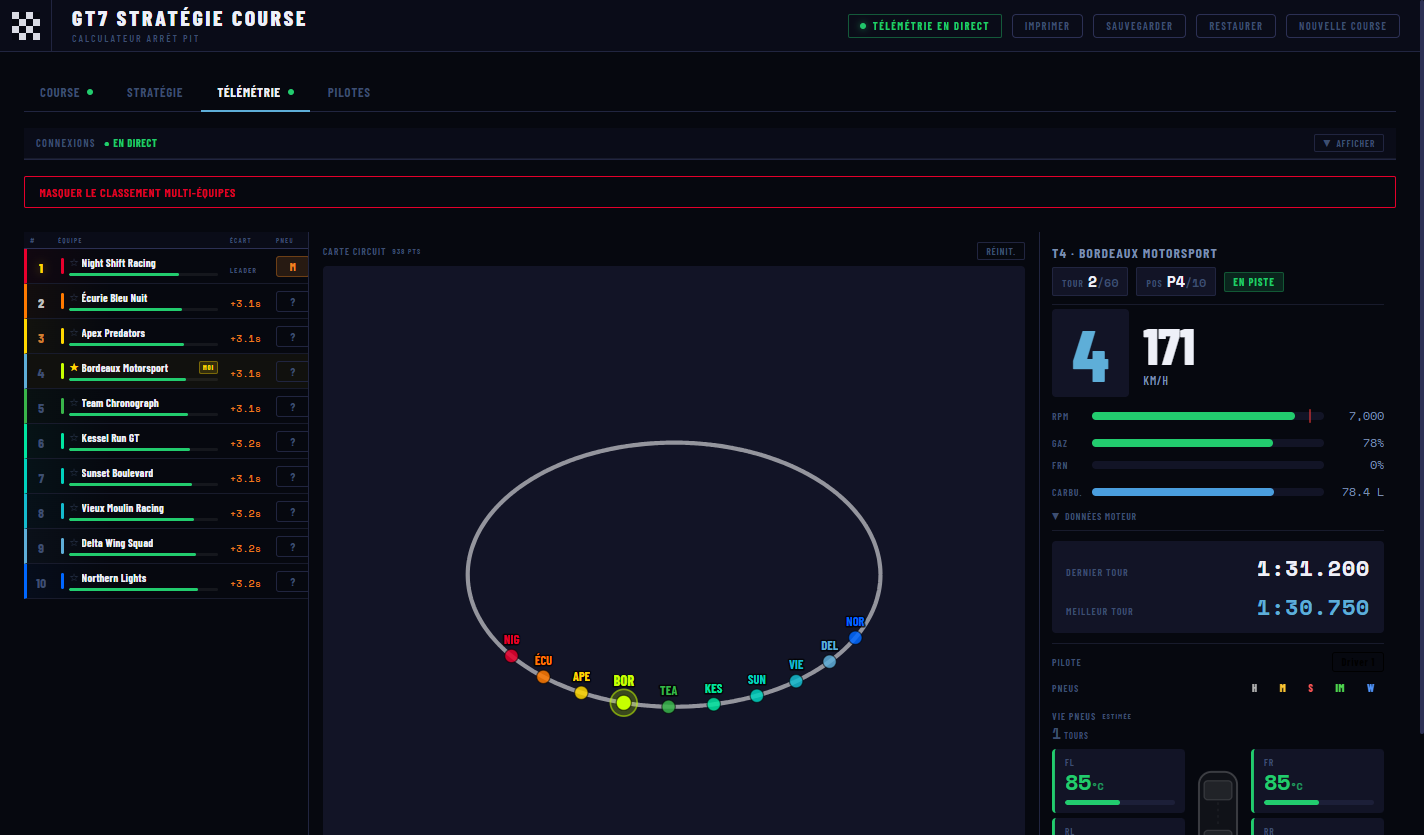
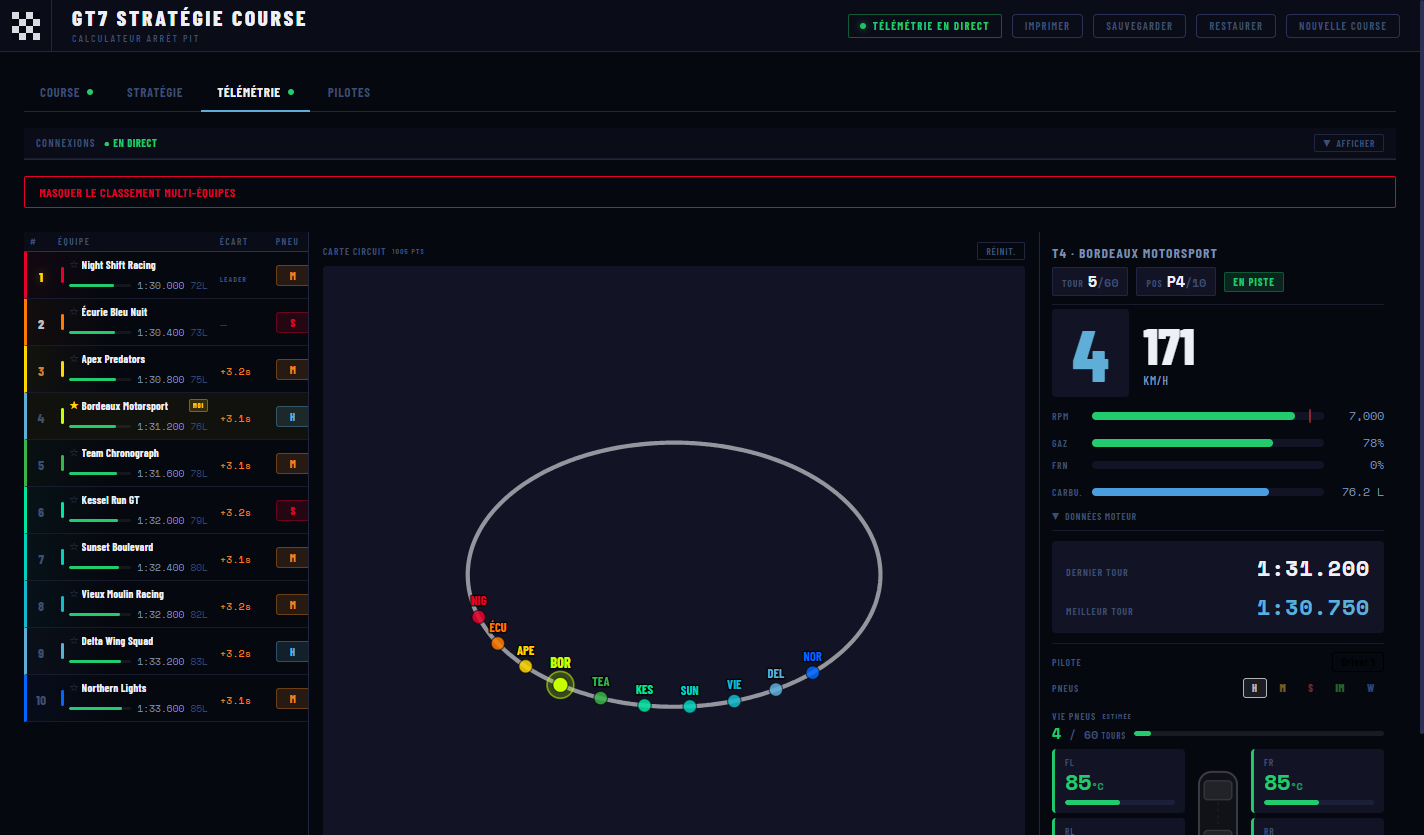
fix(leaderboard): the other cells were worse off than the name
Measured every visible cell in the running packaged app against the widest
value it can actually hold, not against the values the demo happened to show.
Three real problems:

- **The gap column clipped from ten seconds up.** ÉCART's 46px left the number
  34px of content: "+3.2s" fits, "+12.4s" does not — i.e. most of a real
  field, which is why the simulated one at +3.1s looked fine. Now 56px, which
  holds "+119.9s", the widest an interval gets before the car is a lap down.
- **The column headers rendered at 7.04px.** 0.44rem was set back when the
  column was 160px wide. Now 0.58rem (9.28px).
- **The last lap and the fuel litres were not shown at all.** DERNIER,
  MEILLEUR and CARBU are hidden in this column and only the 3px fuel bar
  survived, so you could see roughly how full a car was and never how fast it
  just went. Both numbers now ride under the team name, where they cost no
  width — the one thing the name cannot spare.

Also raises the column's floor 230px → 270px: below that the longest names
clipped again on a small window. Measured at 230/250/260/270.

Verified in the repackaged build with ten named cars: with every cell stuffed
with its worst case ("Bordeaux Motorsport", "19:59.999", "+119.9s", "100L",
"IM"), nothing clips at either the 270px floor or full width. The map still
gets 731px.

Tests: test_ui_leaderboard 48 → 55, suite 2412 → 2419. The new ones pin the
markup the narrow column depends on — jsdom does no layout, so they assert the
[…]

diff --git a/src/index.css b/src/index.css
@@ -1928,9 +1928,11 @@ input[type="range"]::-moz-range-thumb {
    "127.0.0.2" and nothing anyone would actually type. Measured again at 20vw
    on a 1424px window the name cell is ~114px, which clears a long name
    ("Bordeaux Motorsport" needs 87px) even on the starred row, where the MOI
-   pill costs another ~22px. The map keeps the rest and still gets ~735px. */
+   pill costs another ~22px. The map keeps the rest and still gets ~735px.
+   The 270px floor is where nothing clips on a small window — measured at
+   230/250/260/270 with the widest values every cell can hold. */
 .telem-3col-lb {
-  width: max(230px, 20vw);
+  width: max(270px, 20vw);
   flex-shrink: 0;
   border-right: 1px solid var(--rule-mid);
   overflow-y: auto;
@@ -2255,6 +2257,23 @@ input[type="range"]::-moz-range-thumb {
 }
 
 /* Inline fuel bar — only shown in narrow mode (telem-3col-lb) */
+/* The name's second line, narrow column only — see .telem-3col-lb below. */
+.lb-meta {
+  display: none;
+  align-items: center;
+  gap: 6px;
+  margin-top: 3px;
+}
+.lb-meta .lb-inline-fuel { flex: 1; }
+.lb-meta-lap,
+.lb-meta-fuel {
+  font-family: var(--font-mono);
+  font-size: 0.6rem;
+  white-space: nowrap;
+}
+.lb-meta-lap  { color: var(--text-secondary); }
+.lb-meta-fuel { color: var(--text-muted); }
+
 .lb-inline-fuel {
   display: none;
   height: 3px;
@@ -2948,11 +2967,19 @@ input[type="range"]::-moz-range-thumb {
 .telem-3col-lb .lbc-best,
 .telem-3col-lb .lbc-fuel      { display: none; }
 .telem-3col-lb .lb-inline-fuel { display: block; }
+/* DERNIER, MEILLEUR and CARBU have no column here, so the last lap and the
+   fuel litres ride along under the team name instead — same information,
+   no extra width. */
+.telem-3col-lb .lb-meta { display: flex; }
 .telem-3col-lb .lb-header,
 .telem-3col-lb .lb-row {
-  grid-template-columns: 28px 1fr 46px 38px;
+  /* ÉCART at 46px gave the number 34px of content, which fits "+3.2s" and
+     clips "+12.4s" — i.e. most of a real field. 56px holds "+119.9s", the
+     widest an interval gets before the car is simply a lap down. */
+  grid-template-columns: 28px 1fr 56px 38px;
 }
-.telem-3col-lb .lb-hcol  { font-size: 0.44rem; padding: 4px 6px; }
+/* 0.44rem measured 7.04px in the running app — too small to read. */
+.telem-3col-lb .lb-hcol  { font-size: 0.58rem; padding: 4px 6px; }
 .telem-3col-lb .lbc      { padding: 6px 6px; }
 
 /* In this narrow column the ★ and ✎ were squeezing the team name to literally

diff --git a/tests/test_ui_leaderboard.js b/tests/test_ui_leaderboard.js
@@ -195,6 +195,38 @@ section('the name is actually legible, not squeezed to nothing');
   v.unmount();
 }
 
+section('the narrow column still shows the last lap and the fuel');
+{
+  // The narrow telemetry column has no room for the DERNIER / MEILLEUR / CARBU
+  // columns, so those cells are hidden by CSS there and the two numbers worth
+  // keeping ride under the team name instead. CSS cannot be asserted from
+  // jsdom, but the markup it depends on can: if this line ever goes away, the
+  // narrow column silently loses the lap time and the fuel reading entirely.
+  const v = mount();
+  const rows = $$(v.container, '.lb-row');
+  assert('every row carries the meta line', $$(v.container, '.lb-meta').length === 4);
+  assert('it holds the fuel bar', $($$(v.container, '.lb-meta')[0], '.lb-inline-fuel') !== null);
+  assert('the last lap is there, formatted',
+    textOf($(rows[0], '.lb-meta-lap')) === '2:01.000', textOf($(rows[0], '.lb-meta-lap')));
+  assert('and the fuel in litres', textOf($(rows[0], '.lb-meta-fuel')) === '40L',
+    textOf($(rows[0], '.lb-meta-fuel')));
+
+  // Same numbers as the wide columns — one source, two placements.
+  assert('it agrees with the DERNIER column',
+    textOf($(rows[0], '.lb-meta-lap')) === textOf($(rows[0], '.lbc-last')));
+
+  const blank = mount({
+    teams: new Map([[IPS[0], car({ racePos: 1, lastLapMs: 0, fuelLiters: null })]]),
+    teamOrder: [IPS[0]],
+  });
+  assert('a car with no lap yet shows a placeholder, not NaN',
+    textOf($(blank.container, '.lb-meta-lap')) === '—',
+    textOf($(blank.container, '.lb-meta-lap')));
+  assert('and unknown fuel too', textOf($(blank.container, '.lb-meta-fuel')) === '—');
+  blank.unmount();
+  v.unmount();
+}
+
 section('colours match what the map will paint');
 {
   const v = mount();

diff --git a/src/components/TelemetryLeaderboard.jsx b/src/components/TelemetryLeaderboard.jsx
@@ -164,11 +164,20 @@ export default function TelemetryLeaderboard({
                     {isMine && <span className="lb-mine-pill">MOI</span>}
                     {!d.onTrack && <span className="lb-box-pill">BOX</span>}
                   </div>
-                  <div className="lb-inline-fuel">
-                    <div
-                      className="lb-inline-fuel-fill"
-                      style={{ width: `${fuelPct}%`, background: fuelBarColor(fuelPct) }}
-                    />
+                  {/* Narrow column only: the DERNIER / MEILLEUR / CARBU columns
+                      do not fit there, so the two numbers worth having follow
+                      the name instead of costing another column. */}
+                  <div className="lb-meta">
+                    <div className="lb-inline-fuel">
+                      <div
+                        className="lb-inline-fuel-fill"
+                        style={{ width: `${fuelPct}%`, background: fuelBarColor(fuelPct) }}
+                      />
+                    </div>
+                    <span className="lb-meta-lap">{formatMs(d.lastLapMs)}</span>
+                    <span className="lb-meta-fuel">
+                      {d.fuelLiters != null ? `${d.fuelLiters.toFixed(0)}L` : '—'}
+                    </span>
                   </div>
                 </div>
               </div>

diff --git a/README.md b/README.md
@@ -20,7 +20,7 @@
 
 <br>
 
-![Tests](https://img.shields.io/badge/tests-2412%20assertions%20passing-FFD700?style=flat-square&logoColor=black)
+![Tests](https://img.shields.io/badge/tests-2419%20assertions%20passing-FFD700?style=flat-square&logoColor=black)
 ![Engine](https://img.shields.io/badge/strategy%20engine-pure%20JS%20%C2%B7%20zero%20React-c9a227?style=flat-square)
 ![Patterns](https://img.shields.io/badge/compound%20patterns-~4%20000%20enumerated-c9a227?style=flat-square)
 
@@ -60,7 +60,7 @@
 | **Multi-driver support** | Per-driver lap times per compound, configurable minimum drive time. Two stint-assignment strategies run per plan — one picks stint-by-stint by who owes the most, the other allocates the longest stints first and then refines the split by swapping stints between drivers — and the engine keeps whichever leaves every driver furthest from falling short. Works reliably with reasonable slack (minimums comfortably under an even split of the race); a minimum set right at the theoretical maximum a driver could get can still leave them a little short — that's the race's stint lengths not dividing evenly, not the assignment. |
 | **Mid-race recalculation** | Enter current lap + fuel for an updated strategy on the fly. Connects directly to live PS5 telemetry for automatic updates. |
 | **Live PS5 telemetry** | Full Télémétrie tab: dedicated live dashboard per team with speed, gear, RPM/throttle/brake bars, tyre temperature per corner, tyre life in laps-on-set, last/best lap times, and fuel level. |
-| **Multi-team leaderboard** | Every PS5 on the LAN on one table — position, interval to the car ahead (measured from start/finish crossings), compound, fuel bar, pit/on-track status. Name each team inline, and mark one as yours with ★. |
+| **Multi-team leaderboard** | Every PS5 on the LAN on one table — position, interval to the car ahead (measured from start/finish crossings), last lap, compound, fuel bar and litres, pit/on-track status. Name each team inline, and mark one as yours with ★. |
 | **GPS track map** | SVG circuit drawn live from PS5 position data at 60 Hz. Pit lane auto-detected. All tracked cars shown as colour-coded dots. |
 | **Compound tracking** | Pit exit detected from telemetry — app prompts to confirm which compound was fitted. Tracks each team's current tyre independently. |
 | **LAN PS5 scan** | One click scans the local network for active GT7 PS5s and adds them automatically, with DNS hostname resolution. |
@@ -168,6 +168,8 @@ This captures the typical GT7 pattern where grip drops faster in the second half
 A full LAN field running at once. Every car gets its own colour, **held for the whole session** — so the stripe on a leaderboard row and its dot on the circuit are always the same car, no matter how the order changes. The starred row (★ / **MOI**) is your team: it owns your drivers, your stint log and your strategy, while clicking any other row just inspects it.
 
 The circuit draws itself from live GPS as cars lap. On the right, per-corner **tyre temperature** and tyre life counted in laps-on-set — GT7 reports no tyre wear, so nothing here pretends otherwise.
+
+Each row carries position, team, interval, last lap, fuel and compound. The column is too narrow for DERNIER / MEILLEUR / CARBU as separate columns, so the last lap and the fuel litres sit under the name instead of costing width the team name needs.
 
 <img src="docs/media/multi-car-live.gif" alt="The same view in motion: ten coloured car dots running round the circuit while the leaderboard holds its gaps" width="100%"/>
 
@@ -354,7 +356,7 @@ npm run test:smoke    # 1-hour race smoke test
 | **Groups** | `tests/test_groups.js` | 18 | Team Groups → Races → Sessions state (pure, local) |
 | **Sync store** | `tests/test_sync_store.js` | 17 | Self-hosted sync server's filesystem store, path-traversal rejection |
 | **Sync client** | `tests/test_sync_client.js` | 11 | syncClient ↔ sync-server round trip over real HTTP |
-| **UI · leaderboard** | `tests/test_ui_leaderboard.js` | 48 | The rendered board — rename via ✎/double-click/blur/Escape, ★ my-team, colour stability when the order changes, real gap column, team names surviving a crowded row, 12-car field |
+| **UI · leaderboard** | `tests/test_ui_leaderboard.js` | 55 | The rendered board — rename via ✎/double-click/blur/Escape, ★ my-team, colour stability when the order changes, real gap column, team names surviving a crowded row, the narrow column's lap-time and fuel line, 12-car field |
 | **UI · track map** | `tests/test_ui_trackmap.js` | 36 | The rendered SVG with its rAF loop stepped by hand — a dot per car, own-car halo in team colour, dimmed pit cars, 3-char outlined tags, smooth motion between packets |
 | **UI · drivers** | `tests/test_ui_drivers.js` | 35 | Pilotes tab totals and stint rows, the live stint counting once the clock ticks, and the pit banner asking only for what is missing |
 | **UI · reconnect** | `tests/test_ui_reconnect.js` | 19 | What survives a PS5 going quiet, the relay dropping, and a browser reload — and what deliberately does not |

diff --git a/docs/CURRENT_STATE.md b/docs/CURRENT_STATE.md
@@ -123,7 +123,7 @@ The UI suites add a small DOM harness (`tests/helpers/`): jsdom, React's own `ac
 | `test_groups.js` | 18 assertions. Team Groups → Races → Sessions state (pure, local, `src/logic/groups.js`). |
 | `test_sync_store.js` | 17 assertions. Self-hosted sync server's filesystem store; path-traversal rejection. |
 | `test_sync_client.js` | 11 assertions. `syncClient` ↔ `sync-server` round trip over real HTTP. |
-| `test_ui_leaderboard.js` | 48 assertions. **Renders the real component.** Rename by ✎, double-click, blur and Escape; ★ marking; that a car keeps its colour when the running order changes; the interval column; that a long team name still renders on the busiest row; a 12-car field. |
+| `test_ui_leaderboard.js` | 55 assertions. **Renders the real component.** Rename by ✎, double-click, blur and Escape; ★ marking; that a car keeps its colour when the running order changes; the interval column; that a long team name still renders on the busiest row; that the narrow column keeps the last lap and the fuel litres under the name; a 12-car field. |
 | `test_ui_trackmap.js` | 36 assertions. **Renders the real SVG and steps its rAF loop by hand** — the imperative `createElementNS` dot code has no other safety net. A dot per car, own-car halo in the team's own colour, boxed cars dimmed not dropped, 3-char outlined tags at grid density, and that the dot advances on frames between packets without jumping back. |
 | `test_ui_drivers.js` | 35 assertions. Pilotes tab (stint rows, driver totals, the minimum flag, the live stint counting once the 1 s clock ticks, reset) and LiveDashboard's pit confirmation (drivers offered only on my own car; banner wording per what is still unknown). |
 | `test_ui_reconnect.js` | 19 assertions. The three distinct "lost connection" cases: a PS5 going quiet (kept inside the staleness window, returns on its own with the same colour), the relay dropping (auto-reconnect re-registers the PS5 list and data resumes), and a browser reload (★, team names, tyres and the stint log come back; a tyre cleared by a pit stop stays cleared; strategy inputs are deliberately not persisted). |
